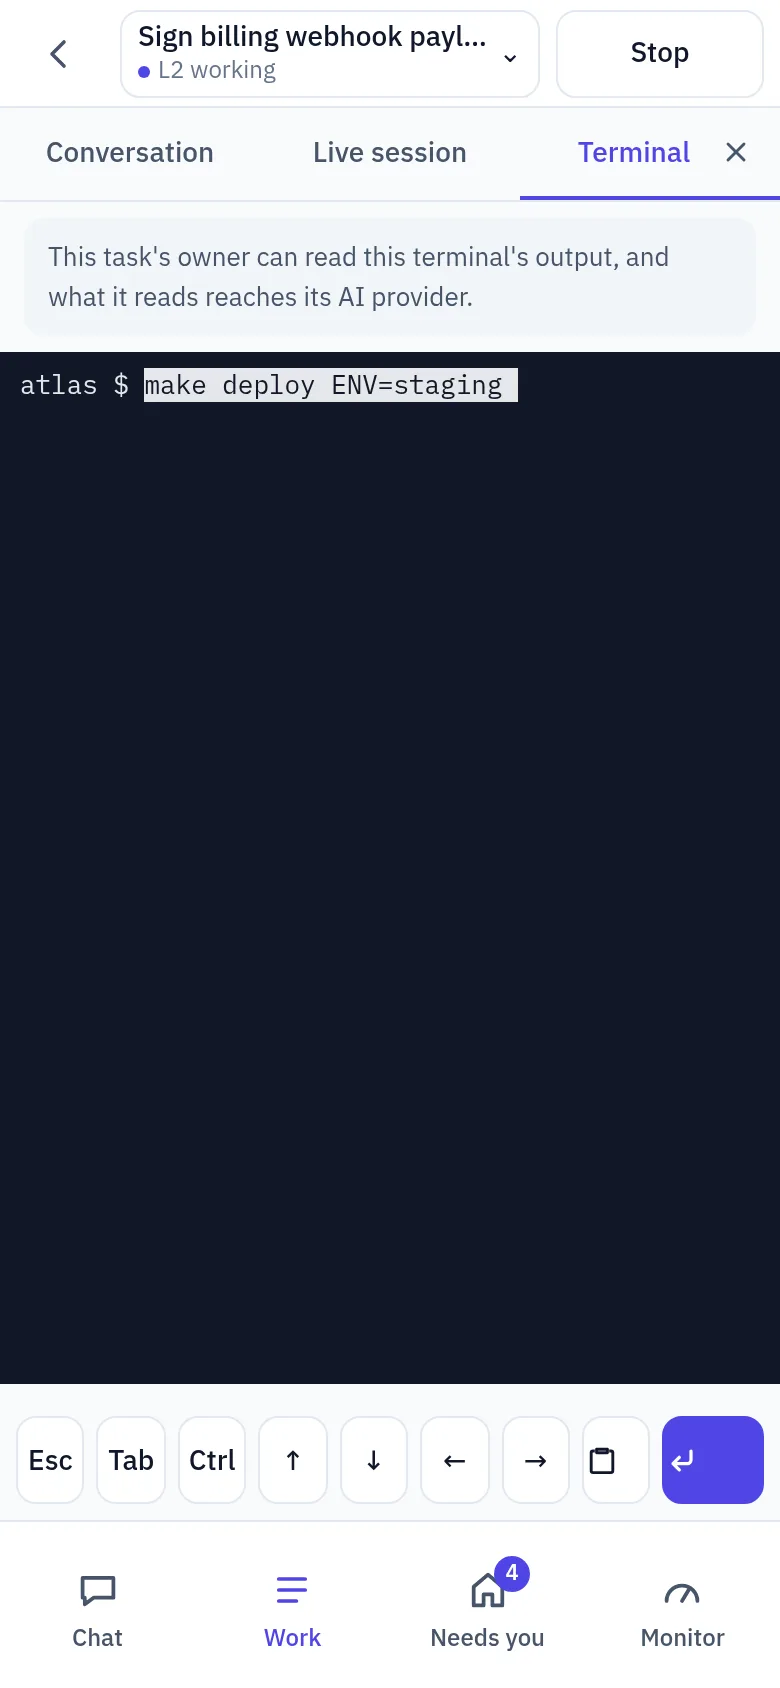
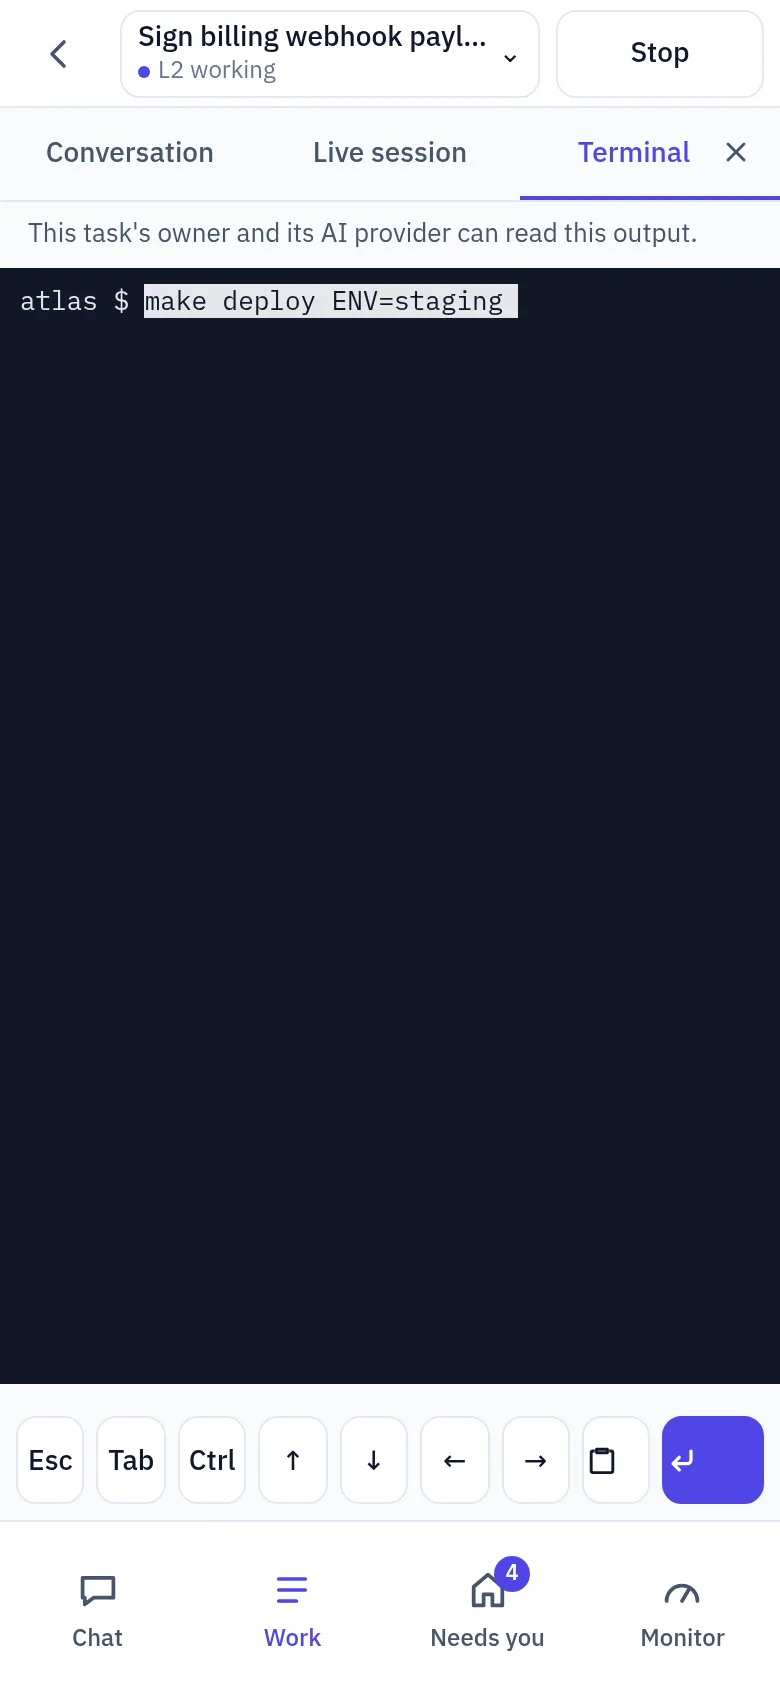
Say who can read a terminal in one quiet line above its screen (#1084)
* Say who can read a terminal in one quiet line above its screen

The grey box becomes one line of secondary meta text, giving the phone
screen back about two rows while the fact stays in view.

* Keep the terminal screen one colour to its edges

xterm's scroll layer covers the padding on its element and is black by
default; it lets the screen's colour show through.

* Show the terminal's reader line in the README pictures

---------

Changed region(s): [[0.0, 0.1232, 1.0, 0.2464]]

diff --git a/web/e2e/terminal.pw.ts b/web/e2e/terminal.pw.ts
@@ -62,10 +62,17 @@ test("a task terminal opens in its worktree, closes when its shell exits and fol
   await run(page, "echo hello-$((6*7)); basename $PWD");
   await expect(output).toContainText("hello-42");
   await walk.state("03-running", {
-    visible: [output.getByText("prepare-index-migration", { exact: false }).last(), close, panel.getByText("This task's owner can read this terminal's output, and what it reads reaches its AI provider.")],
+    visible: [output.getByText("prepare-index-migration", { exact: false }).last(), close, panel.getByText("This task's owner and its AI provider can read this output.")],
     hidden: [panel.getByText(/L2's worktree/), panel.getByRole("button", { name: "Open terminal" }), ...(phone ? [] : [keys])],
   });
   if (phone) await expect(keys).toBeVisible();
+  // Who can read the terminal is one quiet line, not a box, at either width.
+  const reader = panel.locator(".terminal-reader");
+  const line = await reader.evaluate((el) => parseFloat(getComputedStyle(el).lineHeight));
+  expect((await reader.boundingBox())!.height).toBeLessThanOrEqual(line + 1);
+  expect(await reader.evaluate((el) => getComputedStyle(el).backgroundColor)).toBe("rgba(0, 0, 0, 0)");
+  // The screen is one colour to its edges: xterm's scroll layer, black by default, lets it show through its padding.
+  expect(await page.locator(".terminal-screen .xterm-viewport").evaluate((el) => getComputedStyle(el).backgroundColor)).toBe("rgba(0, 0, 0, 0)");
 
   // Tab completion, arrows and Escape reach the shell; nothing around the terminal takes them.
   await page.locator(".terminal-screen").click();
@@ -233,9 +240,12 @@ test("a project terminal opens in the project folder, refuses agents and ends wi
   await run(page, "basename $PWD");
   await expect(output).toContainText("atlas");
   await walk.state("12-project-running-restart-pending", {
-    visible: [panel.getByText(/Altitude restarts at its next quiet point/), output.getByText("atlas").last(), close],
-    hidden: [refused, panel.getByText(/clean main/), panel.getByText(/task's owner can read/)],
+    visible: [panel.getByText("The coordinator and its AI provider can read this output."), panel.getByText(/Altitude restarts at its next quiet point/), output.getByText("atlas").last(), close],
+    hidden: [refused, panel.getByText(/clean main/), panel.getByText(/task's owner/)],
   });
+  // The temporary restart notice keeps its box, under the standing line.
+  const reader = (await panel.locator(".terminal-reader").boundingBox())!;
+  expect((await panel.getByText(/Altitude restarts at its next quiet point/).boundingBox())!.y).toBeGreaterThanOrEqual(reader.y + reader.height);
   await page.locator(".terminal-screen").click();
   await page.keyboard.type("ech");
   await page.keyboard.press("Tab");
@@ -630,7 +640,7 @@ test("@phone-only swipes move through Conversation, Live session and Terminal; a
   await walk.state("05-swipe-on-terminal-text-stays", { visible: [panel, output.getByText("line-30")], hidden: [live] });
 
   // Past the last view the track gives a little and never switches.
-  const note = await center(panel.locator(".terminal-note"));
+  const note = await center(panel.locator(".terminal-reader"));
   await swipe(page, 300, note.y, -160, async () => {
     await expect.poll(offset).toBeLessThan(0);
     expect(await offset()).toBeGreaterThan(-60);

diff --git a/web/src/components/terminal.css b/web/src/components/terminal.css
@@ -7,6 +7,8 @@
 .terminal-close { min-height: 36px; padding: 0 14px; flex: none; }
 .terminal-stopped { display: flex; align-items: center; justify-content: space-between; gap: 10px; padding: 8px 12px; border: 1px solid var(--chip-claimed-border); border-radius: var(--radius-control); background: var(--chip-claimed-bg); color: var(--chip-claimed-text); font-size: var(--text-meta); }
 .terminal-stopped .btn { min-height: 36px; flex: none; }
+/* Who can read the terminal: a standing fact, so one quiet line rather than a box. */
+.terminal-reader { margin-top: 8px; padding: 0 2px; color: var(--text-secondary); font-size: var(--text-meta); line-height: 1.3; }
 .terminal-note { padding: 10px 12px; border-radius: var(--radius-control); background: var(--bubble); color: var(--text-secondary); font-size: var(--text-meta); }
 .terminal-card { display: flex; flex-direction: column; gap: 8px; padding: 16px; border: 1px solid var(--border); border-radius: var(--radius-card); background: var(--card); }
 .terminal-card h3 { font-weight: 600; }
@@ -19,6 +21,8 @@
 .terminal-reconnecting { position: absolute; top: 8px; right: 12px; padding: 4px 10px; border-radius: 999px; background: rgba(229, 231, 235, 0.92); color: #111827; font-size: var(--text-meta); font-weight: 500; pointer-events: none; }
 /* The padding is xterm's own, which its fit subtracts: on the screen around it, the last row would sit under the edge. */
 .terminal-screen .xterm { height: 100%; padding: 8px 0 8px 10px; }
+/* xterm's scroll layer fills that padding too, black by default: the screen's own colour shows through instead. */
+.terminal-screen .xterm .xterm-viewport { background-color: transparent; }
 .terminal-keys { display: flex; flex: none; gap: 6px; padding: 8px 8px 0; }
 .terminal-keys button { min-width: 0; min-height: var(--target-min); flex: 1 1 0; padding: 0; border: 1px solid var(--border); border-radius: var(--radius-control); background: var(--surface); color: var(--text-primary); font-weight: 500; }
 .terminal-keys .terminal-enter { flex-grow: 1.5; border-color: var(--accent); background: var(--accent); color: var(--on-accent); }
@@ -32,7 +36,8 @@
 /* Phone: the task's third tab and the project's full-screen view, the screen edge to edge. */
 .task-page[data-phone] .terminal-panel { background: transparent; }
 .task-page[data-phone] .terminal-body, .terminal-page .terminal-body { padding: 0 0 8px; }
-.task-page[data-phone] .terminal-card, .terminal-page .terminal-card, .task-page[data-phone] .terminal-note, .terminal-page .terminal-note { margin: 8px 12px 0; }
+.task-page[data-phone] .terminal-card, .terminal-page .terminal-card, .task-page[data-phone] .terminal-note, .terminal-page .terminal-note,
+.task-page[data-phone] .terminal-reader, .terminal-page .terminal-reader { margin: 8px 12px 0; }
 .task-page[data-phone] .terminal-screen, .terminal-page .terminal-screen { border-radius: 0; }
 /* The running terminal's tab carries its × and the tab underline spans both. */
 .task-tab-close { display: flex; min-width: 0; border-bottom: 2px solid var(--accent); }

diff --git a/web/src/routes/Task.test.tsx b/web/src/routes/Task.test.tsx
@@ -1413,7 +1413,7 @@ describe("Phone swipe lifecycle", () => {
       expect(within(tabs).getByRole("link", { name: "Terminal" })).toHaveAttribute("aria-current", "page");
       expect(within(tabs).getByRole("button", { name: "Close terminal" })).toBeVisible();
       expect(screen.getAllByRole("navigation", { name: "Task views" })).toHaveLength(1);
-      await swipeOn(".terminal-note", 100, 300);
+      await swipeOn(".terminal-reader", 100, 300);
       await waitFor(() => expect(router.state.location.pathname).toBe(`${route}/live`));
       await waitFor(() => expect(screen.queryByTestId("terminal-screen")).toBeNull());
       expect(live()).toBeVisible();
@@ -1428,12 +1428,12 @@ describe("Phone swipe lifecycle", () => {
       expect(track().style.transform).toBe("");
       await swipeOn(".terminal-keys", 100, 300);
       expect(track().style.transform).toBe("");
-      touch("touchStart", 300, ".terminal-note");
-      touch("touchMove", 100, ".terminal-note");
+      touch("touchStart", 300, ".terminal-reader");
+      touch("touchMove", 100, ".terminal-reader");
       const offset = parseFloat(track().style.transform.replace(/[^\d.-]/g, ""));
       expect(offset).toBeLessThan(0);
       expect(offset).toBeGreaterThan(-100);
-      touch("touchEnd", 100, ".terminal-note");
+      touch("touchEnd", 100, ".terminal-reader");
       await waitFor(() => expect(track().style.transform).toBe(""));
       expect(router.state.location.pathname).toBe(`${route}/terminal`);
       expect(screen.getByTestId("terminal-screen")).toBeVisible();

diff --git a/web/src/components/Terminal.tsx b/web/src/components/Terminal.tsx
@@ -242,7 +242,7 @@ export default function Terminal({ project, task, keys, head, closeIcon, onLeave
         <button type="button" className="btn" onClick={() => setConfirm(null)}>Cancel</button>
       </>}>{`${confirm} is still running and will be stopped.`}</Card> : null}
       {closeError ? <p role="alert" className="text-meta text-danger">{closeError}</p> : null}
-      <p className="terminal-note">{task ? "This task's owner" : "The coordinator"} can read this terminal's output, and what it reads reaches its AI provider.</p>
+      <p className="terminal-reader">{task ? "This task's owner" : "The coordinator"} and its AI provider can read this output.</p>
       {restart && !restart.failed ? <p className="terminal-note" role="status">Altitude restarts at its next quiet point to apply an update. This terminal will close then.</p> : null}
       <ScreenBoundary onError={screenFailed}>
         <Suspense fallback={<div className="terminal-screen" aria-label="Loading the terminal" />}>

diff --git a/web/src/components/Terminal.test.tsx b/web/src/components/Terminal.test.tsx
@@ -116,7 +116,7 @@ describe("Project terminal", () => {
     const { user, router } = renderApp({ route: "/projects/demo/terminal" });
     expect(await screen.findByTestId("terminal-screen")).toHaveTextContent("t1");
     expect(posts).toContainEqual(["/api/terminal/demo/open", {}]);
-    expect(screen.getByText("The coordinator can read this terminal's output, and what it reads reaches its AI provider.")).toBeVisible();
+    expect(screen.getByText("The coordinator and its AI provider can read this output.")).toBeVisible();
     expect(screen.queryByText(/clean main/)).toBeNull();
     await user.click(within(screen.getByRole("region", { name: "Terminal" })).getByRole("button", { name: "Close" }));
     await waitFor(() => expect(router.state.location.pathname).toBe("/projects/demo"));

diff --git a/web/e2e/run-in-terminal.pw.ts b/web/e2e/run-in-terminal.pw.ts
@@ -229,7 +229,7 @@ test("a project chat command opens the project terminal; other blocks copy only"
   await page.locator(".terminal-screen").click();
   await page.keyboard.press("Enter");
   await walk.state("14-project-enter-runs", {
-    visible: [output.getByText("project-25", { exact: true }), page.getByText("The coordinator can read this terminal's output, and what it reads reaches its AI provider.")],
+    visible: [output.getByText("project-25", { exact: true }), page.getByText("The coordinator and its AI provider can read this output.")],
     hidden: [],
   });
   // Once the shell is back at its prompt, the coordinator is told the command it handed over has run.

diff --git a/design/wireframes/SPEC.md b/design/wireframes/SPEC.md
@@ -1563,8 +1563,8 @@ horizontal swipe never takes it Back. Under
 reduced motion nothing moves with the finger and a release past the same thresholds switches at once.
 Accessible labeled tabs remain the direct alternative. Swipes do not start from the composer or form
 controls, and leave browser-edge Back, text selection, recording, dialogs, horizontally scrollable
-session content and the terminal screen and key row alone; on Terminal a swipe starts from the notes
-and cards around the screen. Vertical scrolling stays native. Desktop keeps simultaneous panes.
+session content and the terminal screen and key row alone; on Terminal a swipe starts from the lines,
+notes and cards around the screen. Vertical scrolling stays native. Desktop keeps simultaneous panes.
 Phone tab and swipe switches replace its current history entry, keep the originating shell tab, and update the URL;
 the desktop panel button adds no history. A `/live` deep link and reload select Live session on
 phone and open the desktop panel. Back in the phone header and the desktop crumb both return to
@@ -1743,8 +1743,8 @@ selection Ctrl+C interrupts. Escape and Tab belong to the shell, also when the p
 | Off | "Terminal is off", what it does, **Open Settings** (returns here with Back, which opens the shell). |
 | Starting | Skeleton lines and "Starting the terminal…". |
 | Running | The screen, its cursor focused on desktop; on phone the soft keyboard closed until the screen is tapped; **Close** / ×; the phone key row. |
-| Running, reader note | Also a grey note above the screen: "This task's owner can read this terminal's output, and what it reads reaches its AI provider." A project terminal names the coordinator instead: "The coordinator can read this terminal's output, …". |
-| Restart pending | A grey note above the screen: "Altitude restarts at its next quiet point to apply an update. This terminal will close then." |
+| Running, reader line | Also one line of secondary meta text above the screen, with no box: "This task's owner and its AI provider can read this output." A project terminal names the coordinator instead: "The coordinator and its AI provider can read this output." It stays in view at every scroll position and with the keyboard open, and wraps rather than truncates on a narrow screen. |
+| Restart pending | A grey note under the reader line: "Altitude restarts at its next quiet point to apply an update. This terminal will close then." |
 | Reconnecting | A small "Reconnecting…" badge over the screen's top right, so the shell keeps its size, also when a page shown again cannot reach Altitude; it disappears when output resumes and missed output appears. When more than the 256 KB replay went by, the screen starts over from what was kept, as a fresh visit shows it. |
 | Typing stopped | Input failed (a program not reading it, Altitude unreachable), so part of it may not have arrived: an amber alert "Typing stopped: <reason> Part of what you typed may not have arrived; check the screen." with **Resume typing**. Keys typed meanwhile are dropped, not queued. |
 | Close with a running command | "Close the terminal?" card naming the command that will be stopped, **Close** (primary) and **Cancel**. Close without a running command acts at once. |

diff --git a/docs/ARCHITECTURE.md b/docs/ARCHITECTURE.md
@@ -1888,9 +1888,9 @@ same form, with `alt project terminal`, which altd answers only on that project'
 verb, and the owner's HTTP reader names a task, so neither a task worker nor another project's coordinator reads
 it. There is no reader path to input, resize, close or stream. The last ended terminal's output stays readable
 in altd's memory until a new terminal opens there, its task finishes or its project is removed (the tick's sweep
-forgets it) or altd stops; nothing is written to disk. Each terminal names its reader above the screen: "This
-task's owner can read this terminal's output" or "The coordinator can read this terminal's output", "and what it
-reads reaches its AI provider". Anything the terminal prints can reach the reader, its session record and its
+forgets it) or altd stops; nothing is written to disk. Each terminal names its reader in one line above the screen:
+"This task's owner and its AI provider can read this output." or "The coordinator and its AI provider can read this
+output." Anything the terminal prints can reach the reader, its session record and its
 provider, where it stays after Altitude forgets it. A password typed at a prompt that does not echo, such as
 `sudo`'s, is not in the output. A desktop or SSH terminal has no reader.
 

diff --git a/CHANGELOG.md b/CHANGELOG.md
@@ -22,6 +22,8 @@ preview; see [release checkpoints](docs/RELEASING.md). An Unreleased entry is no
   press Ctrl; the other keys, Paste and an opened chat command leave it as it was. Coming back to the app
   after the background reads on from where it was, even when the phone dropped the connection quietly,
   instead of leaving the screen still.
+- The terminal says who can read it in one quiet line above the screen instead of a box, giving the
+  phone screen back about two rows.
 - Answering a question or approving a merge shows at once: the card leaves Needs you and your answer
   appears in the chat, Waiting, the moment you press, then settles in place when Altitude saves it. If
   Altitude refuses, the card comes back with your picks and **Not sent** with Retry; if the connection
